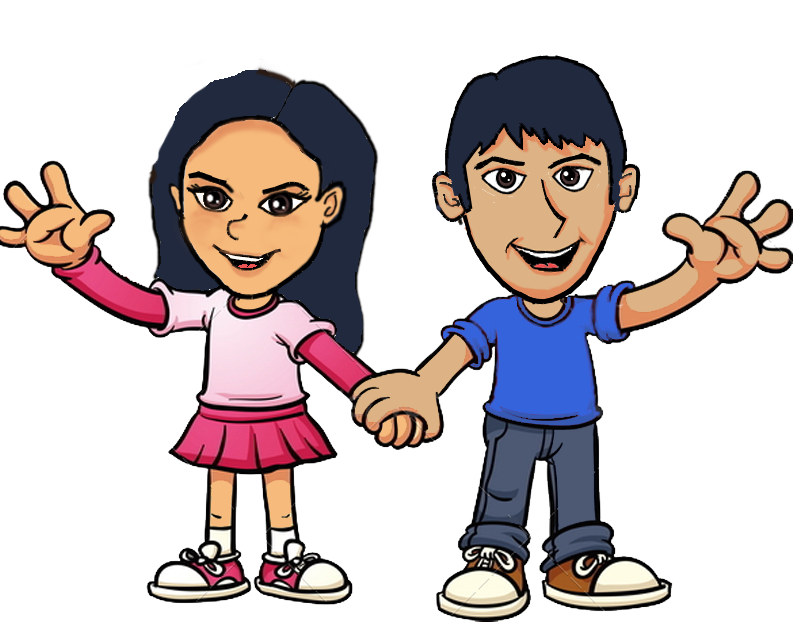
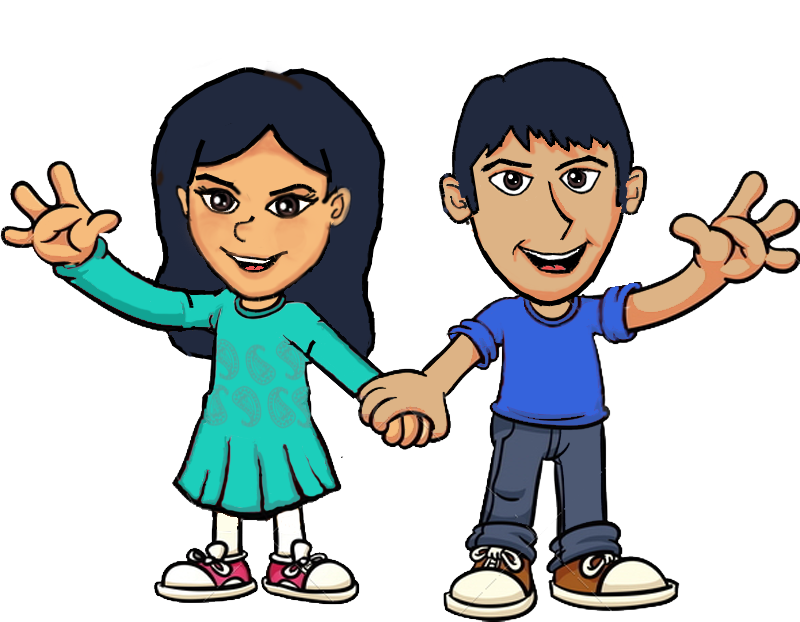
Adding new images and snowflakes

Changed region(s): [[0.0, 0.0916, 1.0, 1.0], [0.2188, 0.1222, 0.2812, 0.1833]]

diff --git a/index.html b/index.html
@@ -4,6 +4,7 @@
   <head>
     <meta name=viewport content='width=700'>
     <link type="text/css" rel="stylesheet" href="/stylesheets/parallax.css" />
+    <link type="text/css" rel="stylesheet" href="/stylesheets/snowflakes.css" />
 
     <!-- Grab the JQuery API from the Google servers -->
     <script src="http://ajax.googleapis.com/ajax/libs/jquery/1/jquery.min.js" type="text/javascript" charset="utf-8"></script>
@@ -12,9 +13,10 @@
     <script type="text/javascript" src="scripts/jquery.parallax-1.1.3.js"></script>
     <script type="text/javascript" src="scripts/jquery.localscroll-1.2.7-min.js"></script>
     <script type="text/javascript" src="scripts/jquery.scrollTo-1.4.2-min.js"></script>
+    <script type="text/javascript" src="scripts/snowflakes.js"></script>
     <script type="text/javascript" src="scripts/skrollr.js"></script>
-  
     <script type="text/javascript" charset="utf-8">
+
     function ResponseToDiv(response) {
       if (response == 1) { 
         return "divYes";
@@ -24,6 +26,7 @@
         return "divNo";
       }
     }
+
     function DrawResponse(response) {
       var divName = ResponseToDiv(response);
   
@@ -86,6 +89,9 @@
  
       // Refresh Skrollr after resizing our sections
       s.refresh($('#story'));
+
+      var snowflakes = new Snowflakes('third','snowflakesContainer');^M
+      snowflakes.create(200);
   
       //.parallax(xPosition, speedFactor, outerHeight) options:
       //xPosition - Horizontal position of the element
@@ -111,14 +117,44 @@
        </div>
 
         <div id="story">
-          <div id="static">
-            <div id ="hat" 
+          <div id="defaultdress" class="static">
+
+            <div id ="beachdress" class="static" 
+                data-center="opacity: 1"
+                data-center-top="opacity: 0"
+                data--100-bottom="opacity: 0;"
+                data-anchor-target="#second">
+            </div><!-- beachdress -->
+
+            <div id ="winterdress" class="static" 
                 data-center="opacity: 1"
                 data-center-top="opacity: 0"
                 data--100-bottom="opacity: 0;"
                 data-anchor-target="#third">
-            </div><!-- hat -->
-            <div id="responseOuter"
+            </div><!-- winterdress -->
+
+            <div id ="minedress" class="static" 
+                data-center="opacity: 1"
+                data-center-top="opacity: 0"
+                data--100-bottom="opacity: 0;"
+                data-anchor-target="#fourth">
+            </div><!-- minedress -->
+
+            <div id ="astrodress" class="static" 
+                data-center="opacity: 1"
+                data-center-top="opacity: 0"
+                data--100-bottom="opacity: 0;"
+                data-anchor-target="#fifth">
+            </div><!-- astrodress -->
+
+            <div id ="weddingdress" class="static" 
+                data-center="opacity: 1"
+                data-center-top="opacity: 0"
+                data--100-bottom="opacity: 0;"
+                data-anchor-target="#sixth">
+            </div><!-- weddingdress -->
+
+            <div id="responseOuter" class="static"
                 data-center="opacity: 1"
                 data-center-top="opacity: 0"
                 data--100-bottom="opacity: 0;"
@@ -200,7 +236,6 @@
           </div> <!--#seventh-->
 
         </div> <!--.story-->
-           
            
     {% else %}
       <p>Not found :( Sign in as a different user? <a href="{{ logout_url }}"> Logout </a> </p>

diff --git a/stylesheets/parallax.css b/stylesheets/parallax.css
@@ -12,13 +12,13 @@ License: http://creativecommons.org/licenses/by-sa/3.0/ (Attribution Share Alike
 @charset "utf-8";
 /* CSS Document */
 
-html { margin: 0px; padding: 0px; border: 0px; }
+html { margin: 0px; padding: 0px; border: 0px; height:100%;}
 body{
 	margin: 0;
 	min-width: 980px;
 	padding: 0;
         border: 0px;
-	height: 100%;
+	min-height: 100%;
 }
 
 #responseOuter {
@@ -26,7 +26,7 @@ body{
   height: 10%;
   padding: 1%;
   position: fixed;
-  top: 30%;
+  bottom: 70%;
   left: 0%;
   z-index: 700;
 }
@@ -87,87 +87,89 @@ body{
 	z-index: 200;
 }
 
-#static{
-	position: fixed;
-	top: 0px;
-	background: url(/images/us.png) 100% 0 no-repeat fixed;
-	background-size: 50% 60%;
-	background-position: center bottom;
-	height: 800px;
-	margin: 0 auto;
-	padding: 0;
-	width: 100%;
-	overflow: hidden;
+.static {
+  position: fixed;
+  top: 0px;
+  height: 800px;
+  margin: 0 auto;
+  padding: 0;
+  width: 100%;
+  overflow: hidden;
+
+}
+
+#defaultdress{
+	background: url(/images/us.png) 50% 0 no-repeat fixed;
+  background-position: center bottom;
 	z-index: 200;
 }
 
-#hat{
-	background: url(/images/hats.png) 100% 0 no-repeat fixed;
-	background-size: 50% 60%;
-	background-position: center bottom;
-	height: 800px;
-	margin: 0 auto;
-	padding: 0;
-	position: fixed;
-	width: 100%;
-	overflow: hidden;
+#beachdress{
+	background: url(/images/beach.png) 50% 0 no-repeat fixed;
+  background-position: center bottom;
 	z-index: 300;
+}
+
+#winterdress{
+	background: url(/images/winter.png) 50% 0 no-repeat fixed;
+  background-position: center bottom;
+	z-index: 300;
+}
+
+#minedress{
+	background: url(/images/mine.png) 50% 0 no-repeat fixed;
+  background-position: center bottom;
+	z-index: 300;
+}
+
+#astrodress{
+	background: url(/images/astro.png) 50% 0 no-repeat fixed;
+  background-position: center bottom;
+	z-index: 300;
+}
+
+#weddingdress{
+	background: url(/images/wedding.png) 50% 0 no-repeat fixed;
+  background-position: center bottom;
+	z-index: 300;
+}
+
+.storyelement {
+	background-size: 100%;
+	color: white;
+	height: 0px;
+        padding-bottom: 800px;
+	margin: 0 auto;
+	width: 100%;
 }
 
 #first{
 	background: url(/images/marsRover.png) 100% 0 no-repeat fixed;
-	background-size: 100% 100%;
-	color: white;
-	height: 800px;
-	margin: 0 auto;
-	width: 100%;
 }
 
 
 #second{
 	background: url(/images/treeBeach.png) 50% 0 no-repeat fixed;
-	background-size: 100% 100%;
-	color: white;
-	height: 800px;
-	margin: 0 auto;
-	width: 100%;
 }
 
 #third{
 	background: url(/images/snow.png) 50% 0 no-repeat fixed;
-	background-size: 100% 100%;
-	color: white;
-	height: 800px;
-	width: 100%;
 }
 
 #fourth{
-	background: url(/images/treeBeach.png) 50% 0 no-repeat fixed;
-	color: white;
-	height: 800px;
-	width: 100%;
+	background: url(/images/mine-back.png) 50% 0 no-repeat fixed;
 }
 
 #fifth{
 	background: url(/images/marsRover.png) 50% 0 no-repeat fixed;
-	background-size: 100% 100%;
-	color: white;
-	height: 800px;
-	width: 100%;
 }
 
 #sixth{
-	background: url(/images/snow.png) 50% 0 no-repeat fixed;
-	color: white;
-	height: 800px;
-	width: 100%;
+	background: url(/images/treeBeach.png) 50% 0 no-repeat fixed;
 }
 
 #seventh{
-	background: url(/images/snow.png) 50% 0 no-repeat fixed;
-	color: white;
-	height: 800px;
-	width: 100%;
+	background: url(/images/treeBeach.png) 50% 0 no-repeat fixed;
 }
 .hsContent {
     margin-left: -450px;
